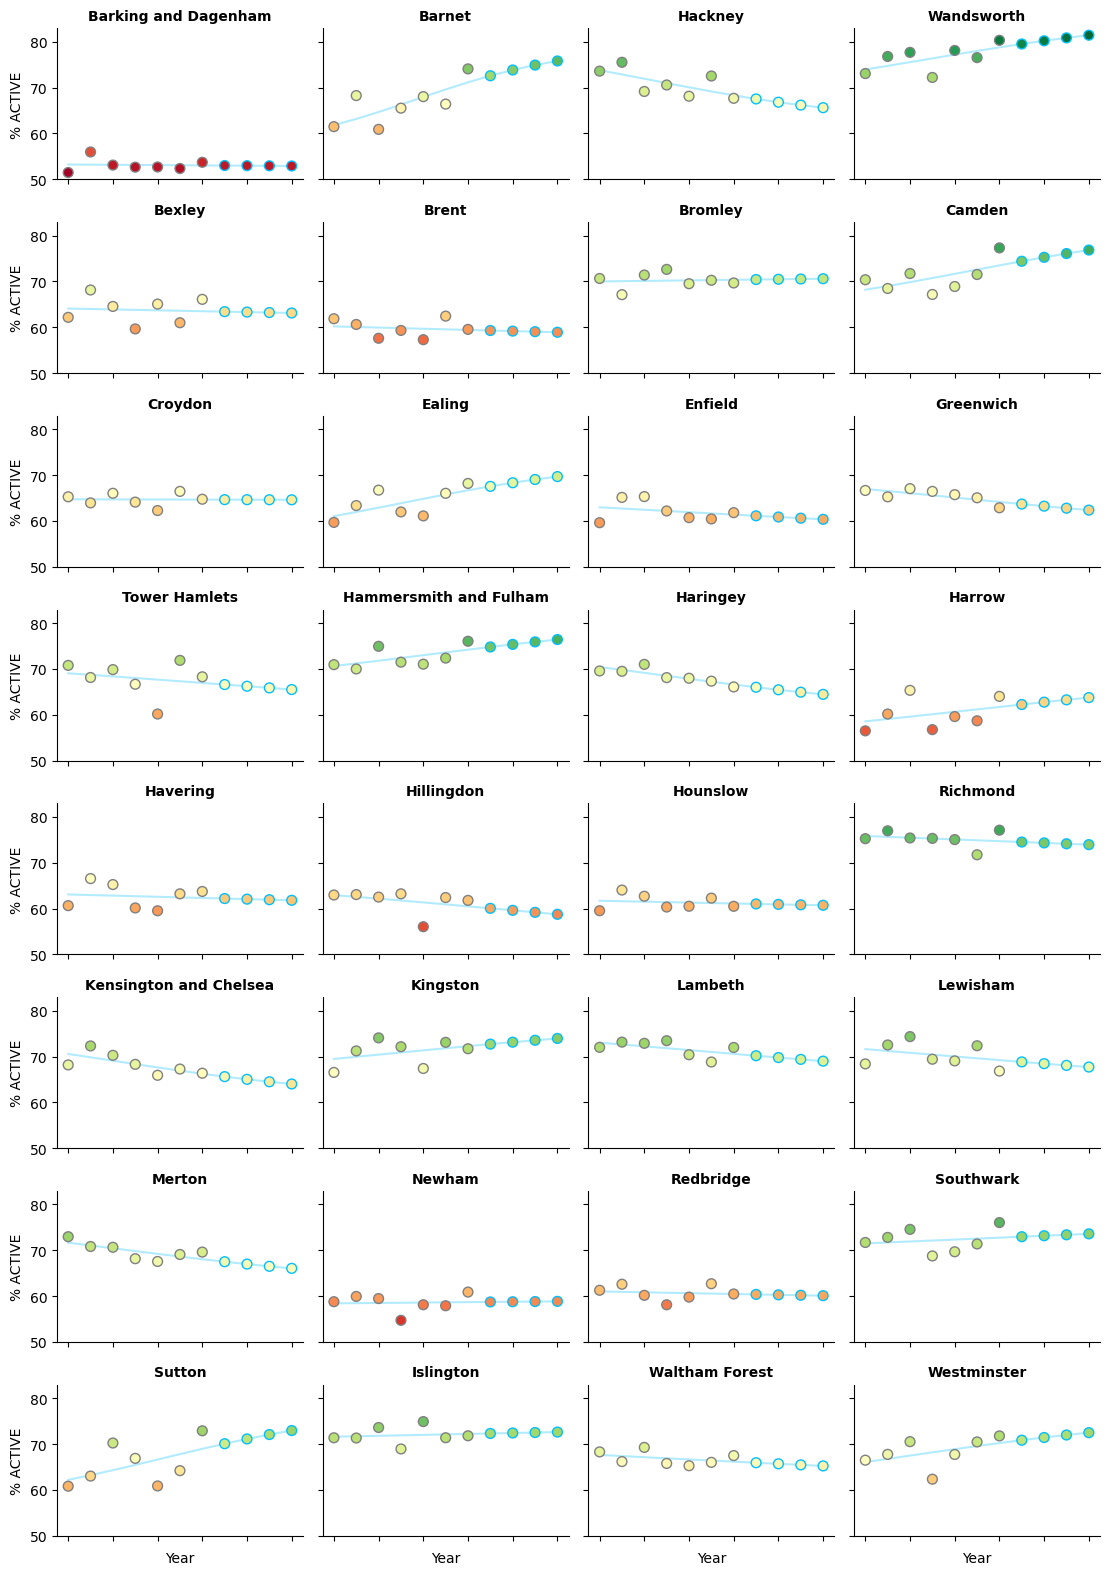
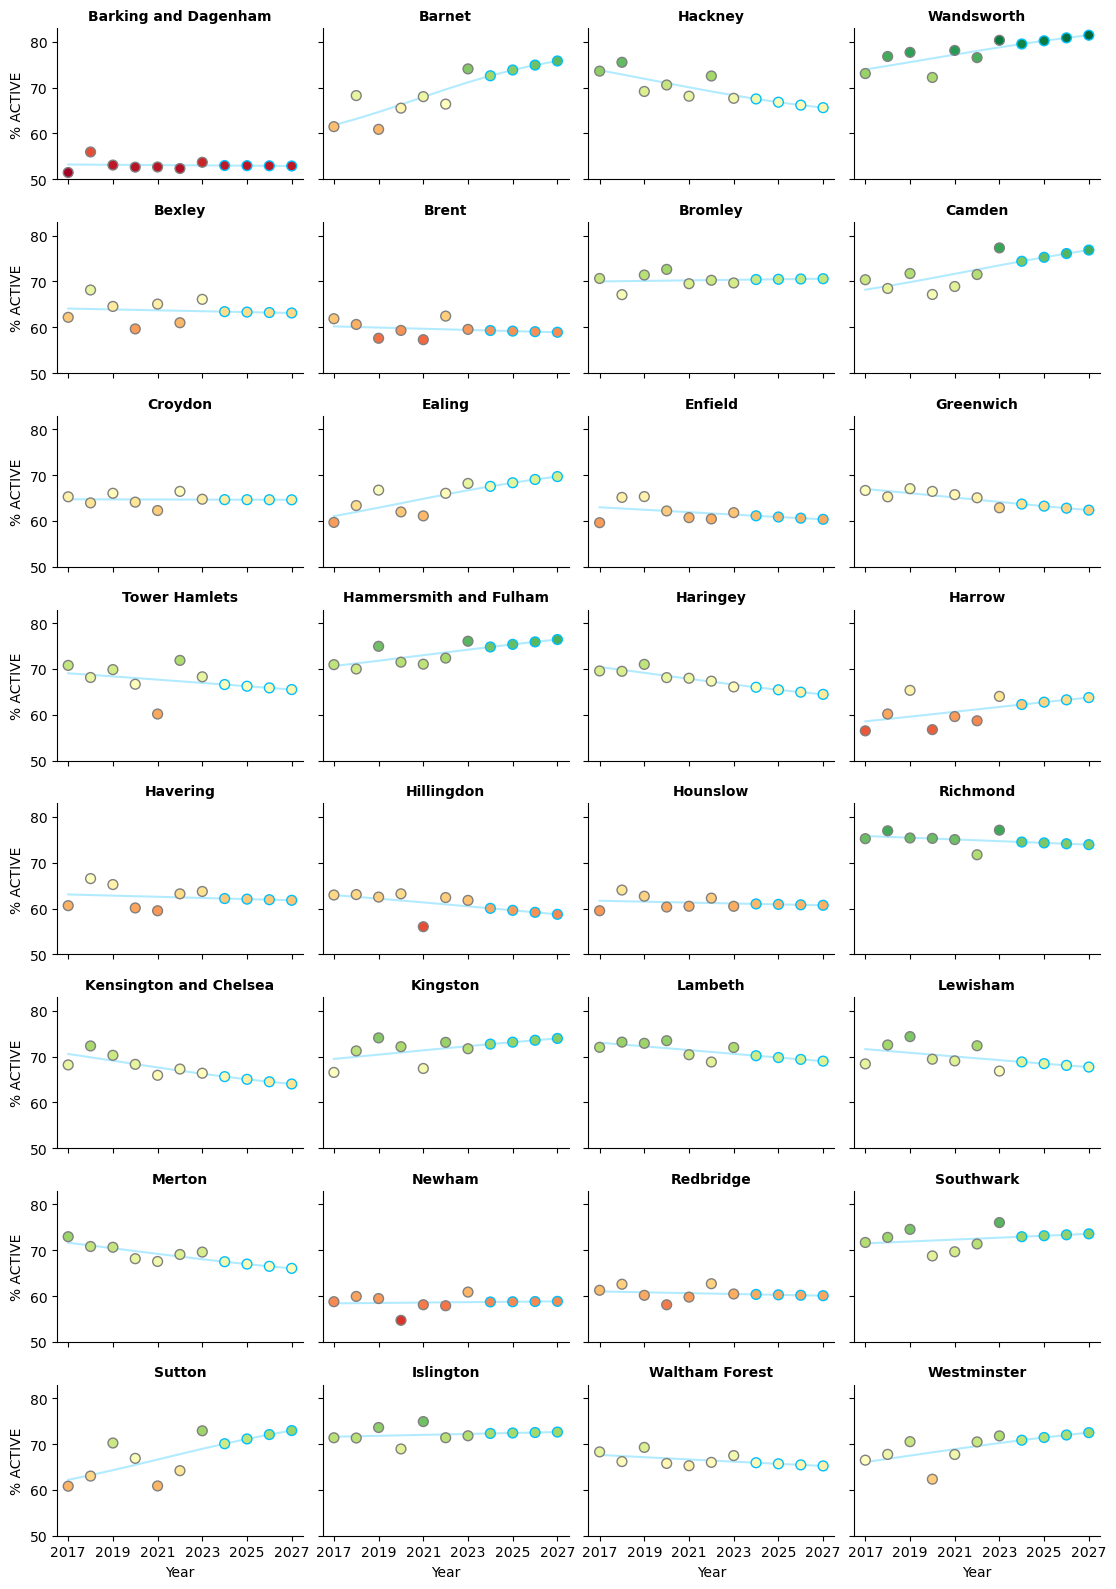
KAN-112: Add years to logistic plots

diff --git a/src/stream_1/logistic_regression.py b/src/stream_1/logistic_regression.py
@@ -91,8 +91,6 @@ class LogisticBoroughForecaster:
         if highlight: 
             last_ax = g.axes_dict[boroughs[-1]]
             last_ax.text(s = '(+28 boroughs)', x = 2029, y = 17, fontsize = 12, ha = 'left', va = 'center', color = '#999999', weight = 'bold')
-        else:
-            g.set_xticklabels([])
         if self.ADJUST_COVID:
             plt.savefig(f'src/stream_1/figures/Logistic Borough Forecast - {self.target_col.upper()} - Highlight {highlight} (COVID Adjusted)', bbox_inches = 'tight')
         else:
@@ -114,4 +112,4 @@ if __name__ == "__main__":
     ]
     forecaster = LogisticBoroughForecaster(BOROUGH_ORDER = borough_order, BOROUGH_HIGHLIGHT = borough_highlight)
     forecaster.fit_predict()
-    forecaster.plot_forecast(highlight = True)
+    forecaster.plot_forecast(highlight = False)
